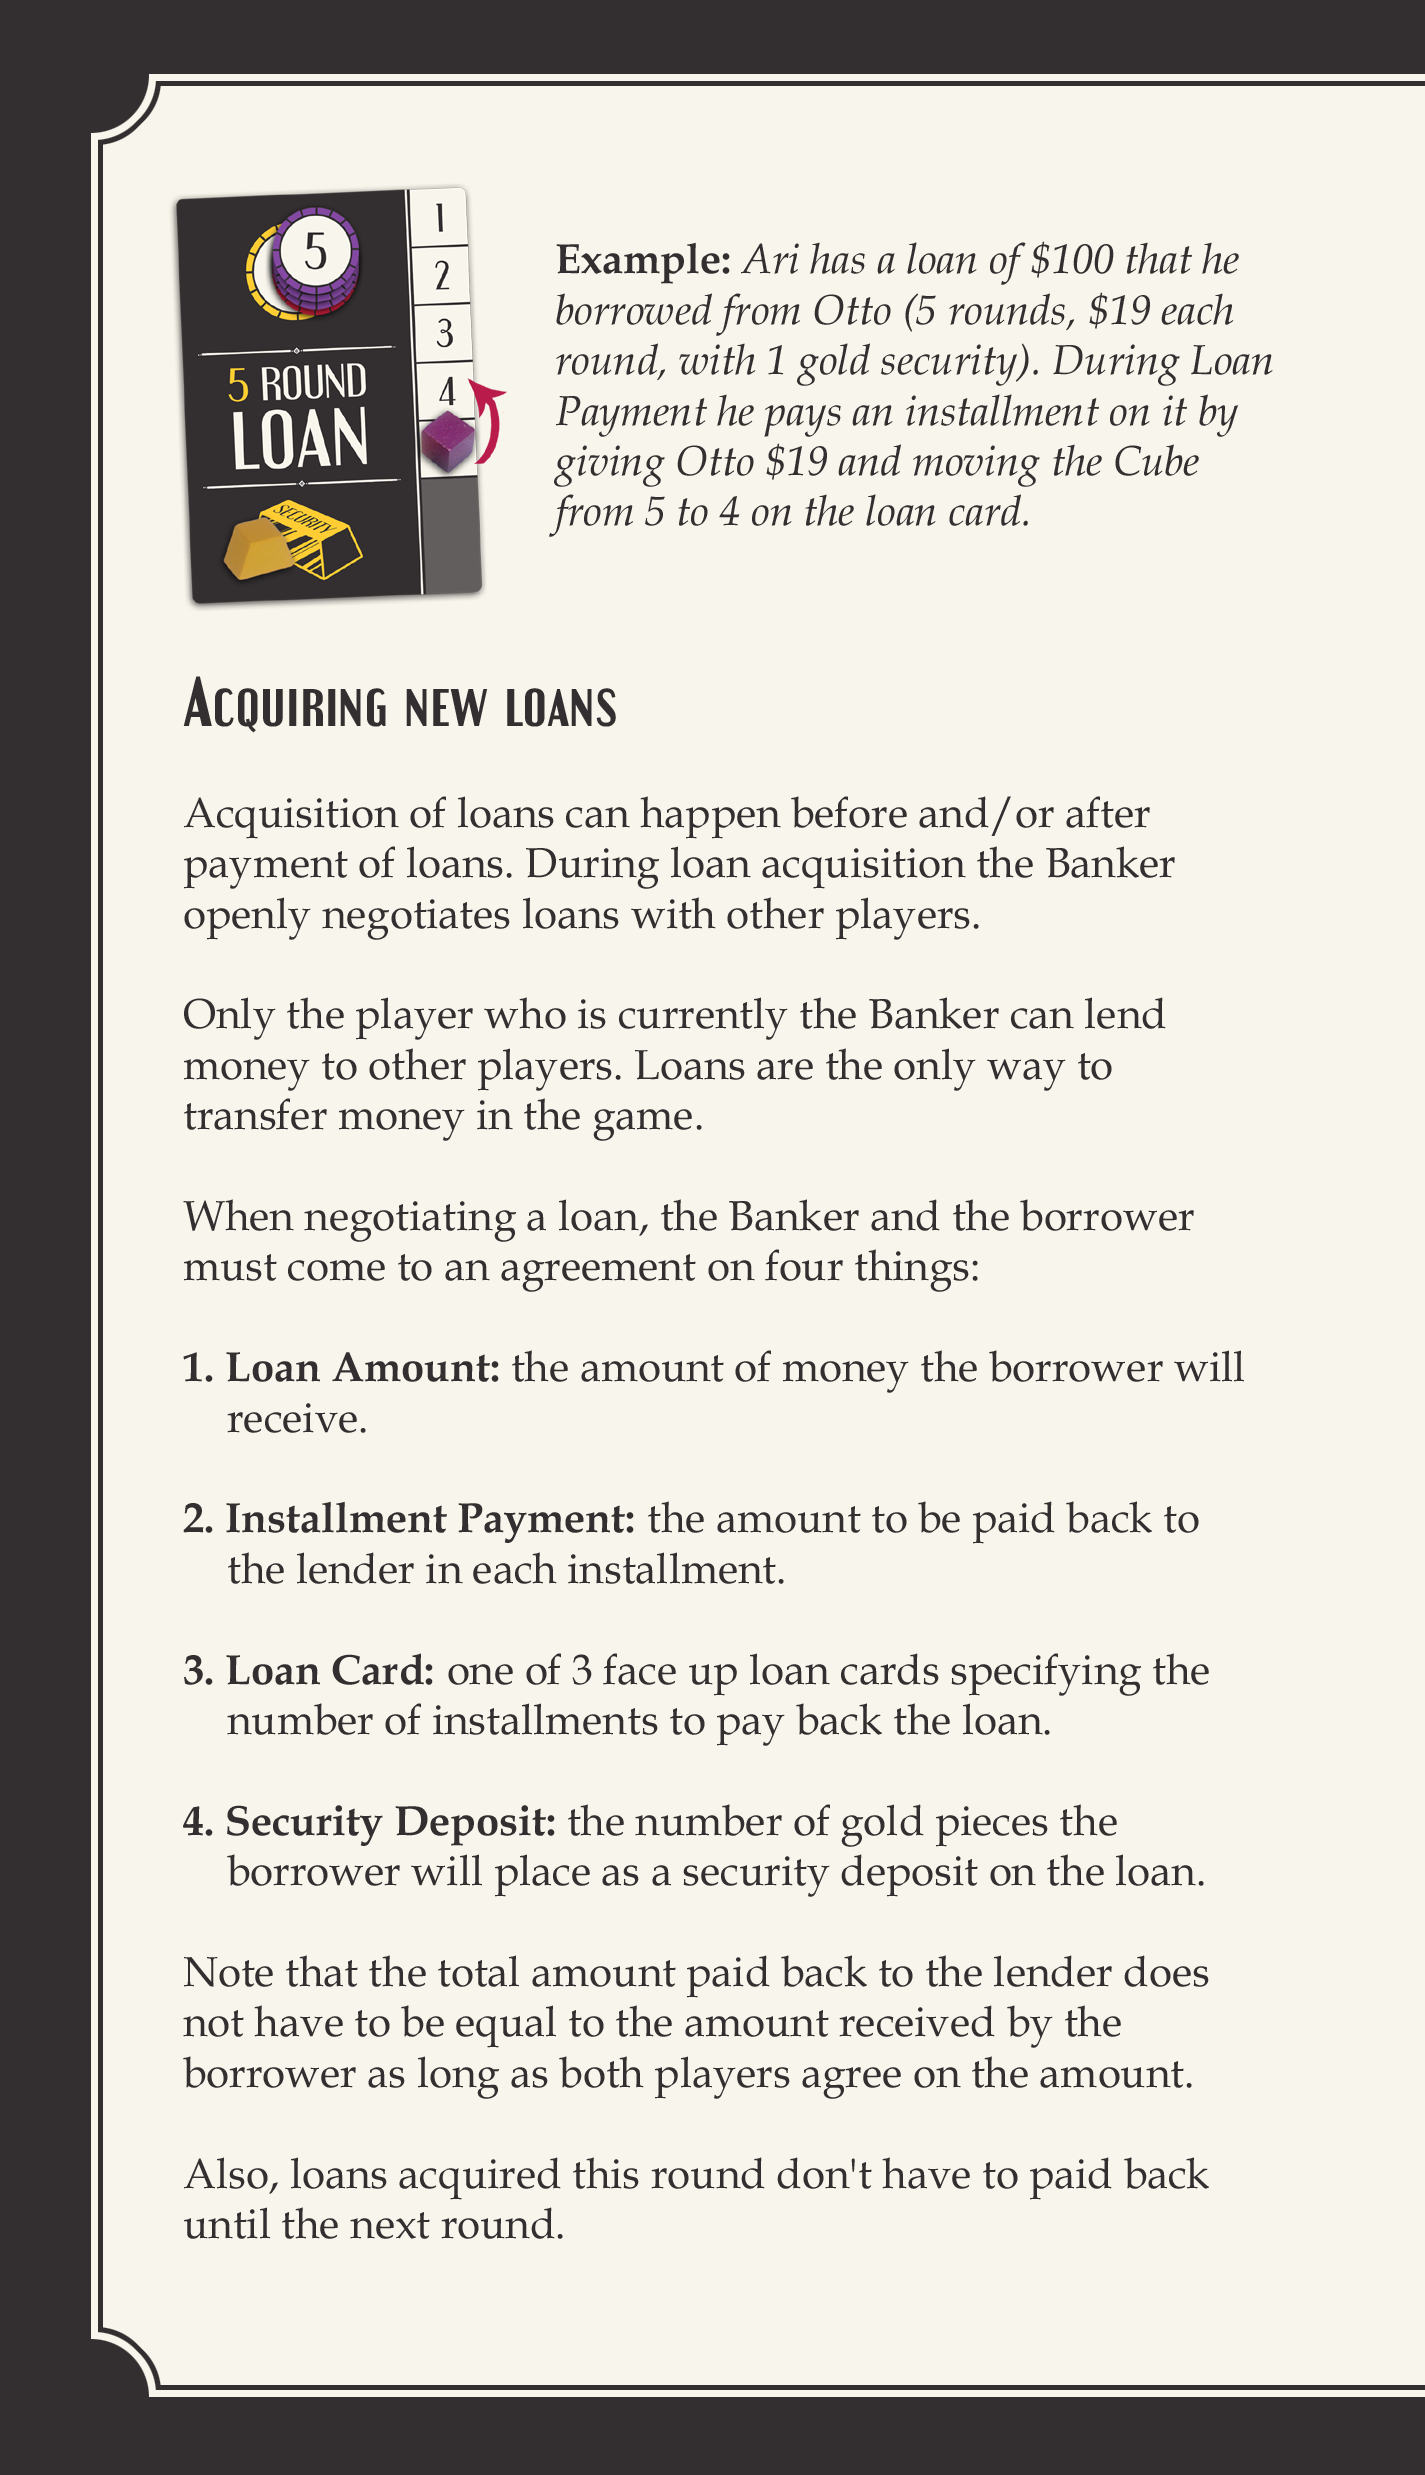
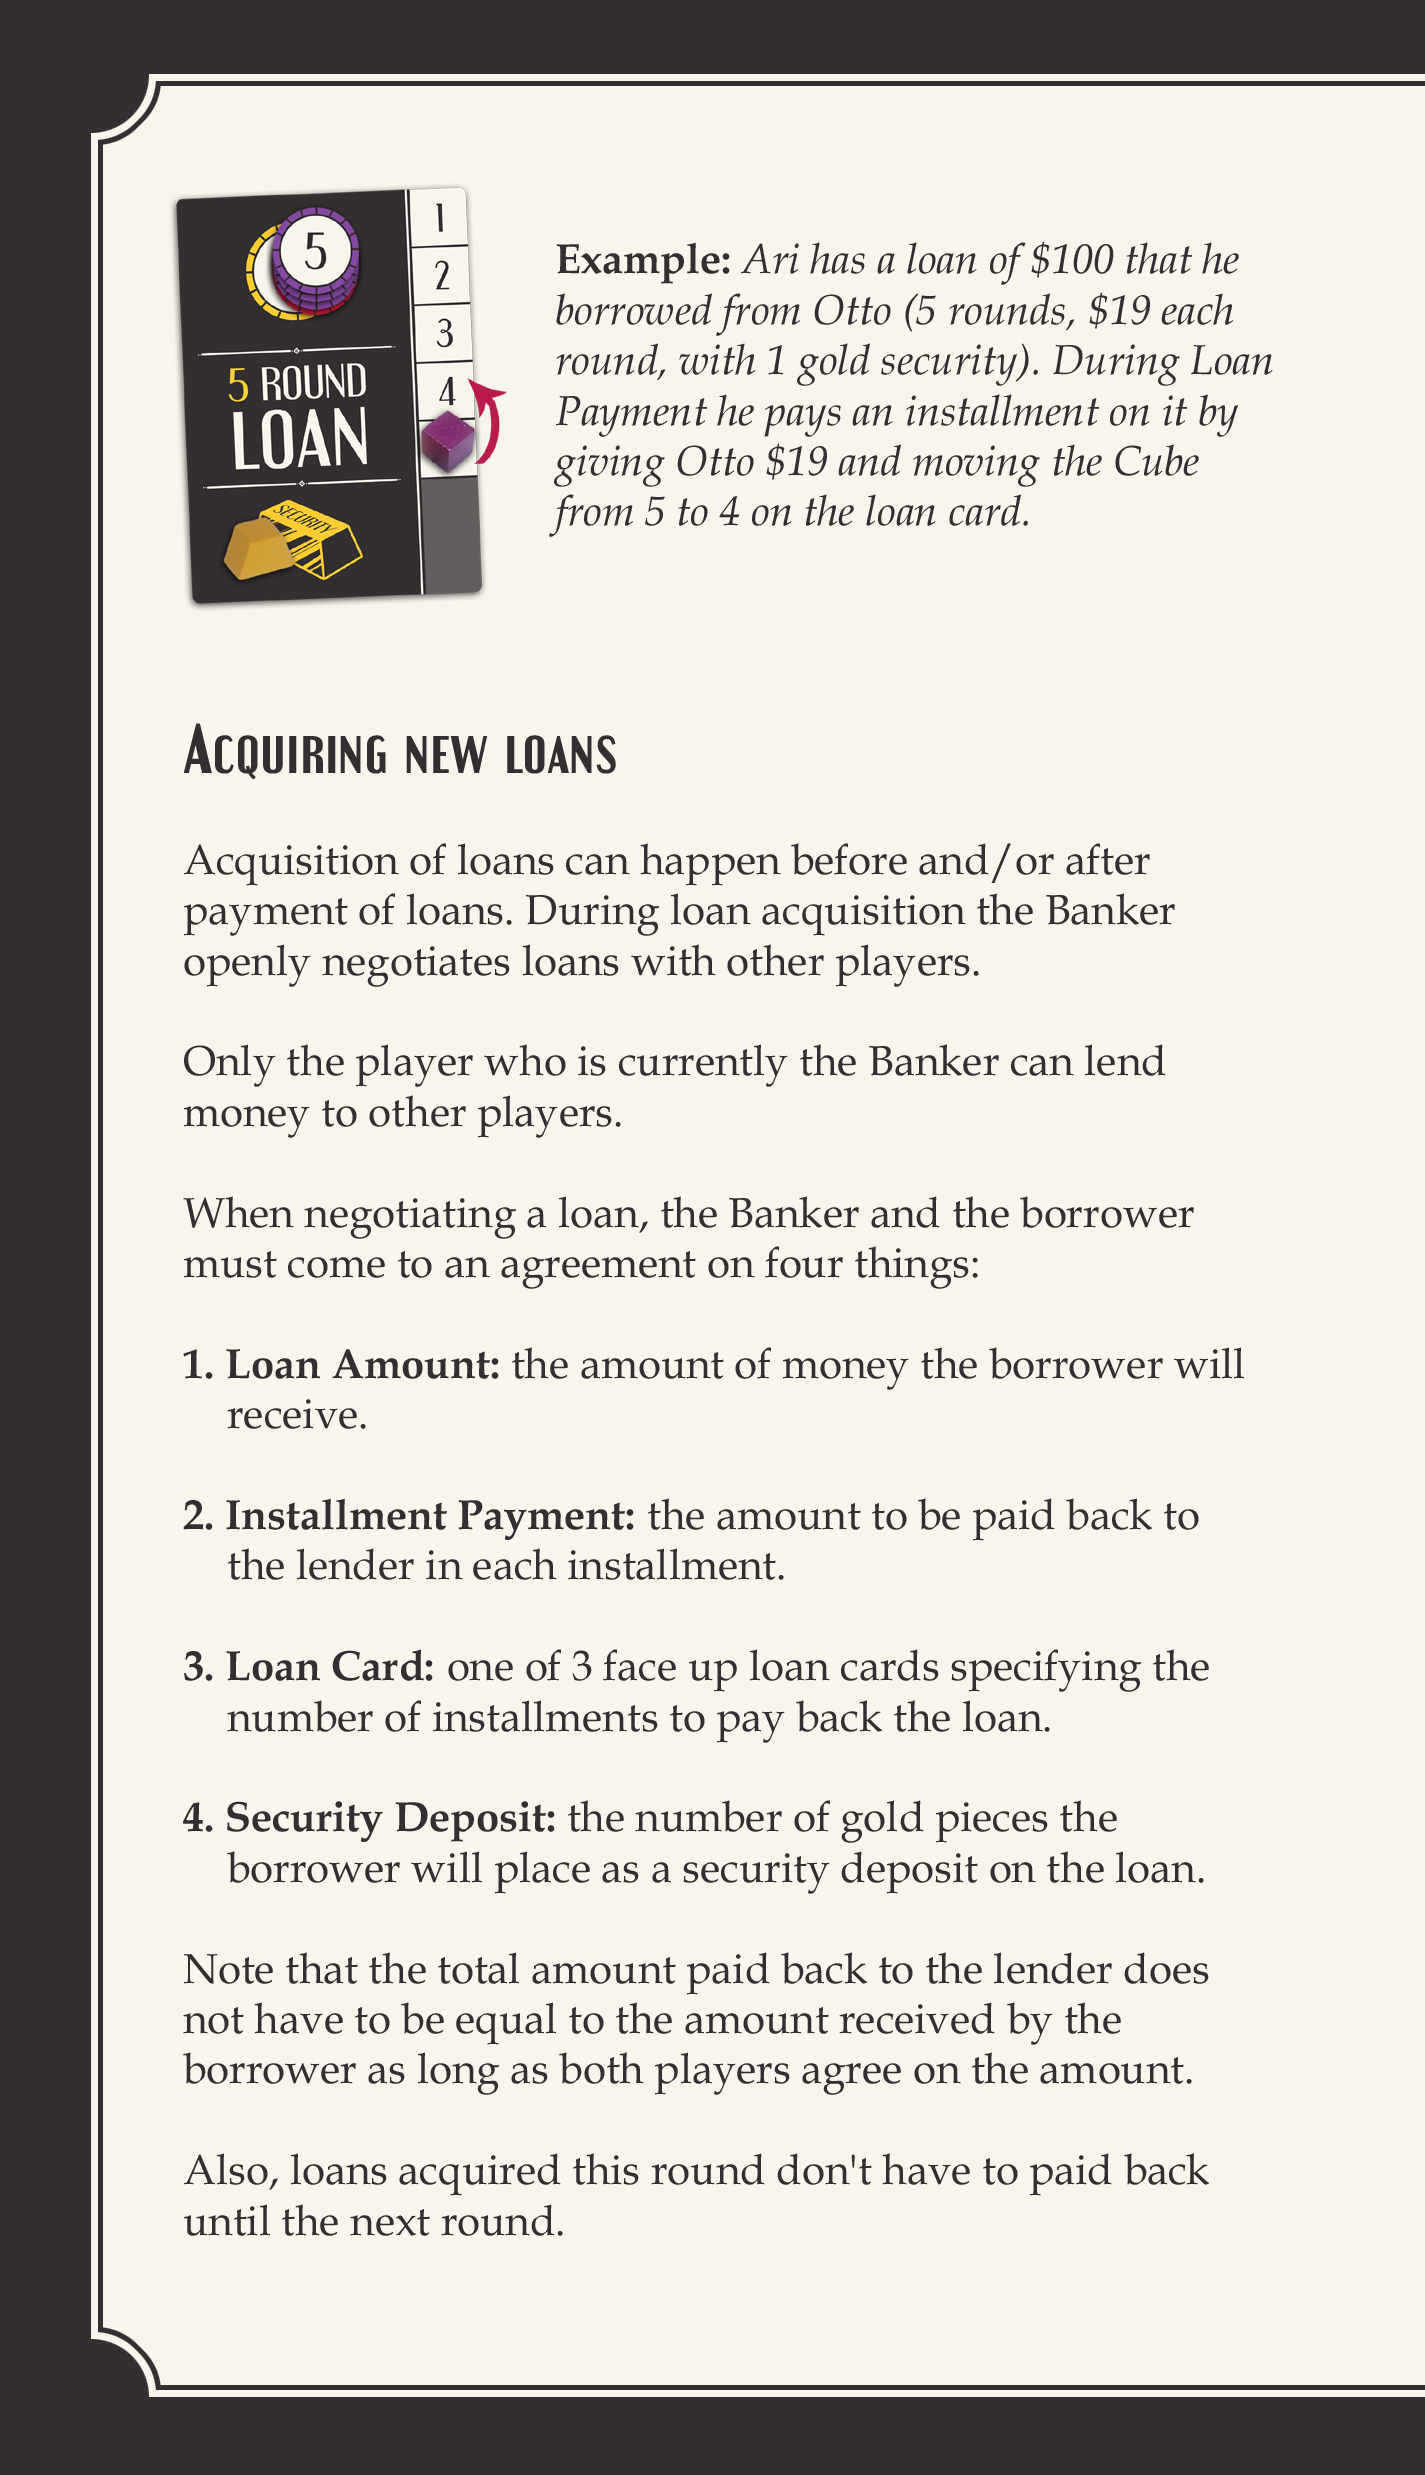
rules.md, rules/page_008.png - removed the 'loans are only way to move money' line

diff --git a/rules.md b/rules.md
@@ -27,6 +27,7 @@ Introduction
 ============
 
 The year is 1929. It has been a decade of boundless economic growth for America. Trading on the stock market is at an all time high thanks to generous loans from the big banks.
+
 Choose your investments wisely to make the biggest profits, but don't cash out too late or you'll be left with nothing but the crumbs of the economy.
 
 
@@ -168,7 +169,7 @@ Acquiring new loans
 
 Acquisition of loans can happen before and/or after payment of loans. During loan acquisition the Banker openly negotiates loans with other players.
 
-Only the player who is currently the Banker can lend money to other players. Loans are the only way to transfer money in the game.
+Only the player who is currently the Banker can lend money to other players. 
 
 When negotiating a loan, the Banker and the borrower must come to an agreement on four things:
 
